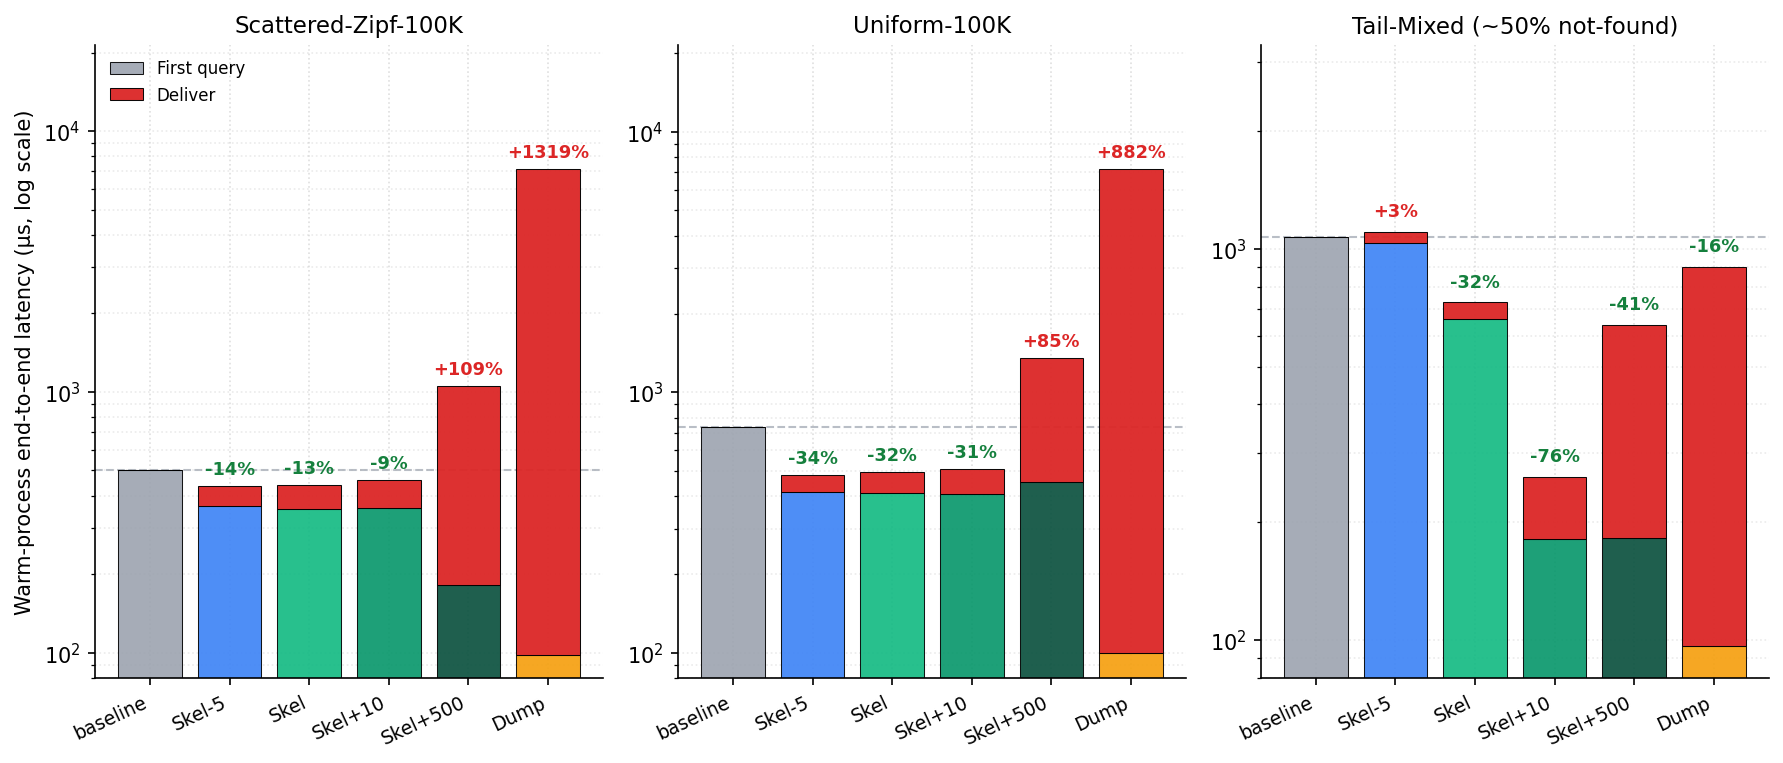
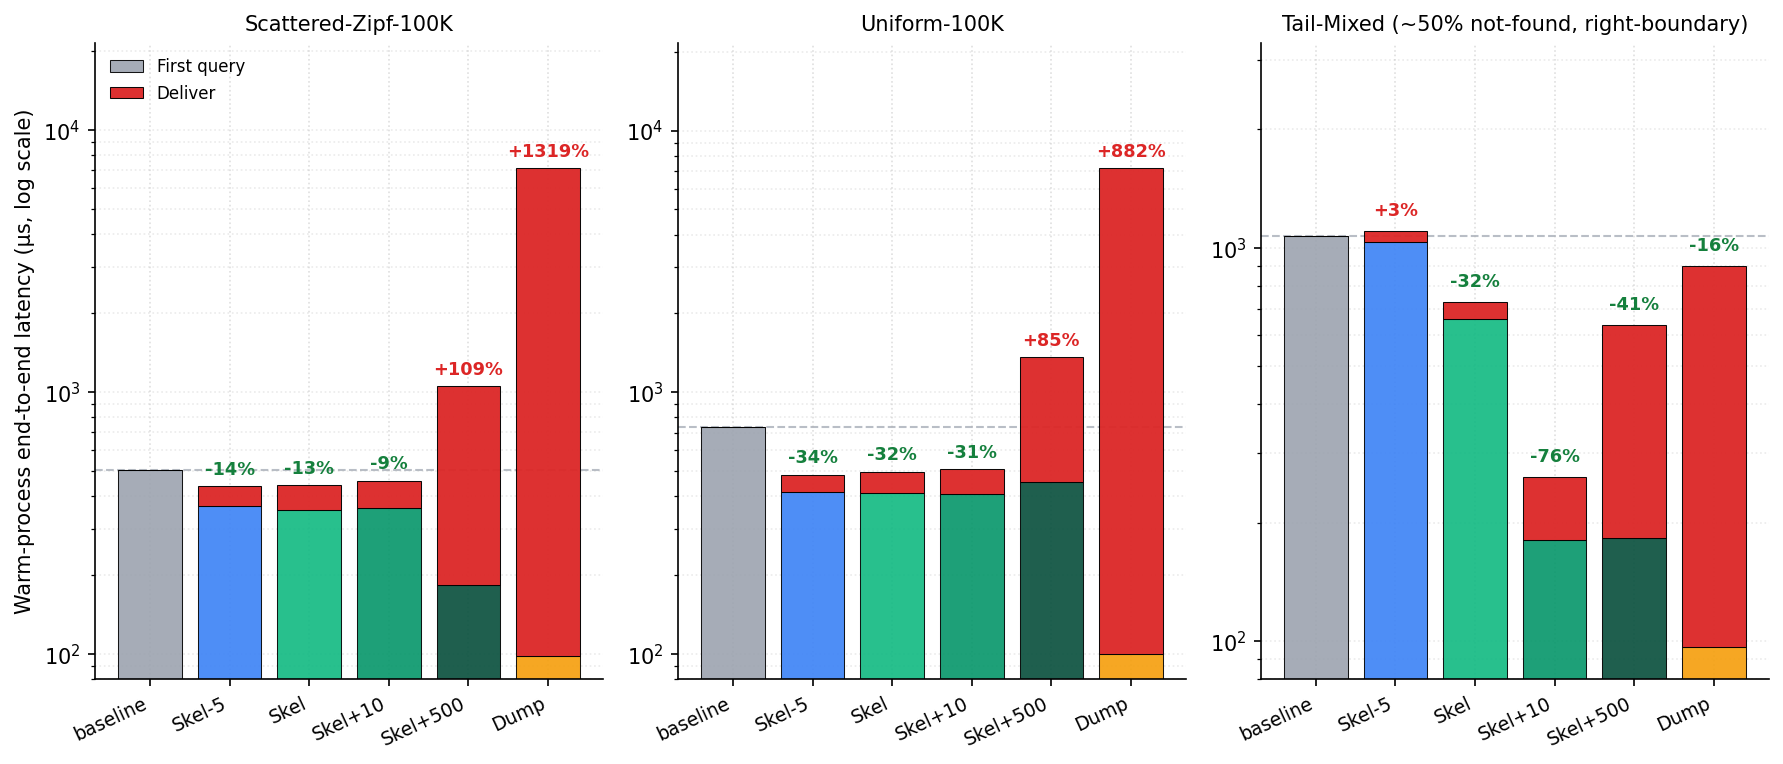
figures: render each workload's panel title from one shared helper
Tail-Mixed appeared under three different labels: Figure 13 appended
"- ~50% not-found tail-boundary", Figure 14 appended "(~50% not-found)", and
Figure 19 showed it bare. Each figure was assembling its own title string, which
is how they drifted -- the same defect shape as the hard-coded workload names
fixed in ef22e9d, one level up.

The bare Figure 19 label was also a silent violation: config/workloads.json
marks that record must_annotate ("Always mark ~50% not-found and right-boundary
(rightmost-leaf) probe concentration"), and nothing enforced it.

plot_utils.workload_panel_title() now renders the title once for every figure,
keyed by canonical_id so aliases resolve identically:

  Tail-Mixed (~50% not-found, right-boundary)
  Tail-Hit (pure-hit control)

Tail-Hit is annotated for the same reason -- it is must_annotate too and Figure
19 was showing it bare. Workloads without must_annotate render as their plain
display name, so the other five panels are unchanged in wording.

Figures 13, 14 and 19 now call the helper instead of concatenating suffixes.
Figure 14's panel title drops to fontsize 10, matching Figure 19, so the longer
Tail-Mixed title clears the axes edge. All three re-render byte-deterministically.

On whether they are the same workload: yes. One registry record
(read_tail_mixed_20k), one generator spec, same key range, same database, orig
layout. The seed protocol differs per cell -- Figures 13/14 are
[…]

diff --git a/figures/14_strategy_endtoend_stacked.py b/figures/14_strategy_endtoend_stacked.py
@@ -18,7 +18,7 @@ by <0.4% here and every printed label is unchanged, but they are not the same
 estimator.
 """
 import csv, sys
-from plot_utils import ROOT, save, STRATEGY_COLORS, workload_display_name
+from plot_utils import ROOT, save, STRATEGY_COLORS, workload_panel_title
 import matplotlib.pyplot as plt
 import numpy as np
 
@@ -30,9 +30,7 @@ ARM_LABEL = {'baseline': 'baseline', 'layers_5': 'Skel-5', '2d': 'Skel',
              '2e_K10': 'Skel+10', '2e_K500': 'Skel+500', '2f_slru': 'Dump'}
 # CSV keys stay legacy (A/B/C); titles resolve to canonical display names.
 WORKLOADS = ['A', 'B', 'C']
-WL_TITLE  = {'A': workload_display_name('A'),
-             'B': workload_display_name('B'),
-             'C': workload_display_name('C') + ' (~50% not-found)'}
+WL_TITLE  = {w: workload_panel_title(w) for w in ('A', 'B', 'C')}
 
 
 def load(path):
@@ -92,7 +90,7 @@ for ax, wl in zip(axes, WORKLOADS):
 
     ax.set_xticks(x)
     ax.set_xticklabels([ARM_LABEL[s] for s in ARMS], fontsize=9, rotation=25, ha='right')
-    ax.set_title(WL_TITLE[wl], fontsize=11)
+    ax.set_title(WL_TITLE[wl], fontsize=10)
     ax.set_yscale('log')
     ax.set_ylim(80, max(warm) * 3.0)
     ax.grid(axis='y', alpha=0.25, which='both')

diff --git a/figures/plot_utils.py b/figures/plot_utils.py
@@ -98,6 +98,25 @@ def strat_display(s):
     """Paper short-name for a notebook codename; identity for anything unmapped."""
     return STRAT_DISPLAY.get(s, s)
 
+
+# Short panel-title annotations for the workloads the registry flags with
+# `must_annotate`. The registry states the requirement in prose ("Always mark
+# ~50% not-found and right-boundary (rightmost-leaf) probe concentration"); this
+# is the one short rendering of it that every figure shares, so the same
+# workload cannot appear under three different labels across figures.
+# Keyed by canonical_id, so any alias resolves to the same annotation.
+PANEL_ANNOTATION = {
+    "read_tail_mixed_20k": "~50% not-found, right-boundary",
+    "read_tail_hit_20k":   "pure-hit control",
+}
+
+
+def workload_panel_title(id_):
+    """Display name plus the registry-required annotation, if the workload has one."""
+    note = PANEL_ANNOTATION.get(normalize_workload_id(id_))
+    name = workload_display_name(id_)
+    return f"{name} ({note})" if note else name
+
 def load_summary(arm="async"):
     """Return {(workload, db, strategy): row} from summary.csv for one arm.
     baseline rows are stored under arm 'baseline' but exposed for every requested arm."""

diff --git a/figures/13_strategy_firstq_bars.py b/figures/13_strategy_firstq_bars.py
@@ -12,7 +12,7 @@ Metric: paired first-query change vs same-batch baseline, (fq - base)/base * 100
 (negative = faster). Layout = orig, arm = async, median of 10 reps.
 """
 import csv, sys
-from plot_utils import ROOT, save, STRATEGY_COLORS, workload_display_name
+from plot_utils import ROOT, save, STRATEGY_COLORS, workload_panel_title
 import matplotlib.pyplot as plt
 import numpy as np
 
@@ -23,9 +23,7 @@ ARM_LABEL = {'layers_5': 'Skel-5', '2d': 'Skel', '2e_K10': 'Skel+10',
              '2e_K500': 'Skel+500', '2f_slru': 'Dump'}
 # CSV keys stay legacy (A/B/C); titles resolve to canonical display names.
 WORKLOADS = ['A', 'B', 'C']
-WL_TITLE  = {'A': workload_display_name('A'),
-             'B': workload_display_name('B'),
-             'C': workload_display_name('C') + ' — ~50% not-found tail-boundary'}
+WL_TITLE  = {w: workload_panel_title(w) for w in ('A', 'B', 'C')}
 
 
 def load(path):

diff --git a/figures/19_openwhisk_effectiveness_bars.py b/figures/19_openwhisk_effectiveness_bars.py
@@ -23,7 +23,7 @@ from collections import defaultdict
 
 import numpy as np
 
-from plot_utils import ROOT, plt, save, strat_display, workload_display_name
+from plot_utils import ROOT, plt, save, strat_display, workload_panel_title
 
 CSV = ROOT / "deployment/openwhisk/analysis/comparison/effectiveness_ow_vs_workstation_revised_freeze.csv"
 
@@ -65,7 +65,7 @@ def main():
         ax.axhline(0.0, color="#333333", lw=1.1, zorder=4)
         ax.axhline(0.10, color="#cccccc", lw=0.8, ls=":", zorder=2)
 
-        ax.set_title(workload_display_name(wl), fontsize=11)
+        ax.set_title(workload_panel_title(wl), fontsize=10)
         ax.set_xticks(x)
         labels = [strat_display(r["strategy"]) + ("*" if str(r.get("position_sensitive", "")).strip().lower() == "true" else "")
                   for r in cells]

diff --git a/docs/figures/FIGURE_SOURCE_MAP.md b/docs/figures/FIGURE_SOURCE_MAP.md
@@ -165,11 +165,11 @@ and Figure 19 (OpenWhisk portability) was added (2026-09-01). Current state:
 | Fig | Script | root/paper md5 | dimensions | re-run byte-identical? |
 |---|---|---|---|---|
 | 1  | `01_page_distribution.py`             | `0e8d229ced…` | 1035×705  | no — 2 px canvas jitter, content identical |
-| 13 | `13_strategy_firstq_bars.py`          | `1b21c1d577…` | 1935×643  | yes (re-sourced to `unified_v3` + workload rename 2026-09-14) |
-| 14 | `14_strategy_endtoend_stacked.py`     | `7ac491ca24…` | 1783×763  | yes (re-sourced to `unified_v3` + workload rename 2026-09-14) |
+| 13 | `13_strategy_firstq_bars.py`          | `e7a0ddb00c…` | 1935×643  | yes (re-sourced to `unified_v3`, workload rename + shared panel title 2026-09-14) |
+| 14 | `14_strategy_endtoend_stacked.py`     | `3a988da8de…` | 1783×763  | yes (re-sourced to `unified_v3`, workload rename + shared panel title 2026-09-14) |
 | 16 | `16_ram_pressure_sweep.py`            | `2feaafe598…` | 1638×1248 | yes (workload rename 2026-09-14; was `6adc990ca9…`) |
 | 17 | `17_lever_ablation.py`                | `5c5365cd7b…` | 1485×614  | yes |
-| 19 | `19_openwhisk_effectiveness_bars.py`  | `3aeaa7a99c…` | 2534×787  | yes (workload labels fixed 2026-09-14; was `55f935f02a…`) |
+| 19 | `19_openwhisk_effectiveness_bars.py`  | `30000ad042…` | 2534×787  | yes (workload labels + shared panel title 2026-09-14) |
 | 18 | `18_capability_matrix.py`             | `b81d89226a…` | 1198×697  | yes — but **not referenced** by `paper/main.tex` |
 
 Every `paper/figures/*.png` is byte-identical to its `figures/out/*.png` root
@@ -248,6 +248,33 @@ Figures 13, 14 and 16 re-rendered (17 and 19 plot no `A` panel and are
 byte-identical); `main.tex` updated in 76 places, with the two
 `Scattered-Zipf-600K` mentions left intact. `tests/test_workload_naming.py` is
 at 14, adding `test_counterpart_pairs_are_symmetrically_named`.
+
+**One panel title per workload, 2026-09-14.** The same workload was labelled
+three different ways: Figure 13 appended "— ~50% not-found tail-boundary",
+Figure 14 appended "(~50% not-found)", and Figure 19 showed a bare `Tail-Mixed`,
+which also silently ignored the registry's `must_annotate` requirement on that
+record ("Always mark ~50% not-found and right-boundary (rightmost-leaf) probe
+concentration"). Each figure was building its own title string.
+
+`plot_utils.workload_panel_title()` now renders it once for every figure, keyed
+by `canonical_id` so aliases resolve the same way:
+
+```
+Tail-Mixed (~50% not-found, right-boundary)
+Tail-Hit (pure-hit control)
+```
+
+`Tail-Hit` carries an annotation for the same reason — the registry flags it
+`must_annotate` too, and Figure 19 was showing it bare. Every other workload has
+no `must_annotate` and renders as its plain display name. Figure 14's panel title
+dropped to fontsize 10 (matching Figure 19) so the longer Tail-Mixed title clears
+the axes edge.
+
+The three figures plot the *same* Tail-Mixed workload — one registry record, one
+generator spec, same key range, same DB, `orig` layout. What differs is the seed
+protocol per cell, which is a measurement choice Figure 19 records in its own
+`seed_protocol` column (Figures 13/14 are single-instantiation seed 1; Figure 19
+mixes seeds 1-10, single-instantiation, seed-1-only and LOSO across its cells).
 
 **Unverified:** no LaTeX toolchain here, so the wider name has not been checked
 against `tab:ceiling`'s narrow `p{0.15\linewidth}` column. It is ragged-right so
